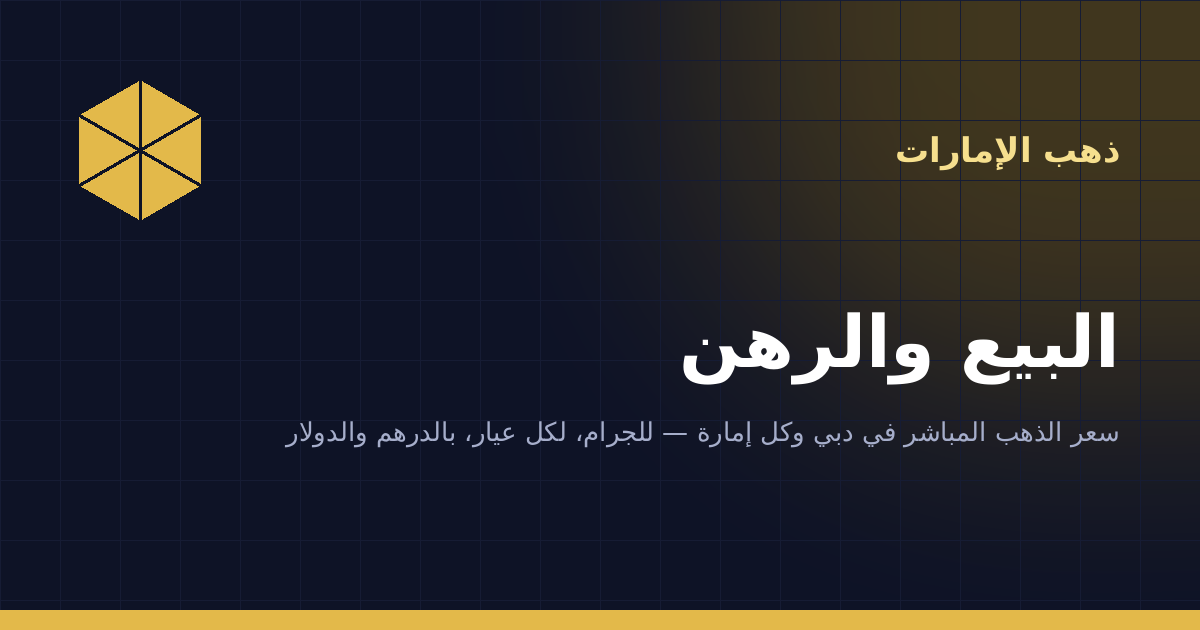
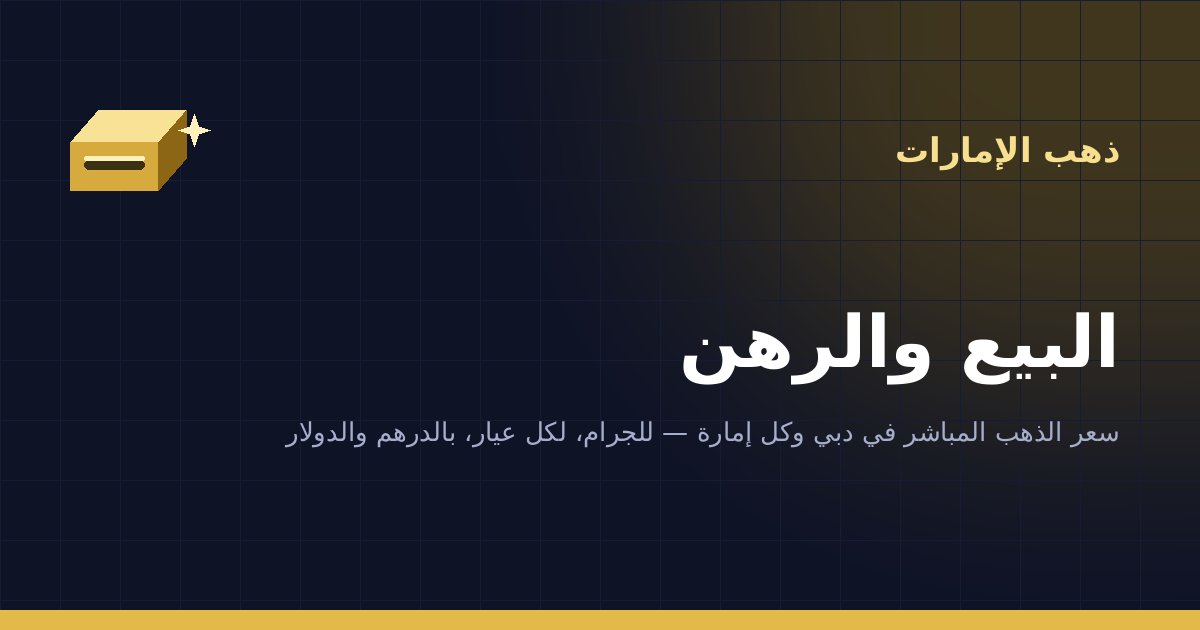
Add files via upload

Changed region(s): [[0.0308, 0.1206, 0.185, 0.3619]]

diff --git a/static/css/karat.css b/static/css/karat.css
@@ -49,7 +49,8 @@ kbd{font:inherit;font-size:.75em;border:1px solid var(--night-line);border-radiu
 .top{background:var(--night);color:var(--on-night);position:sticky;top:0;z-index:60;border-bottom:1px solid var(--night-line)}
 .top__row{display:flex;align-items:center;gap:1.25rem;min-height:4.25rem}
 .brand{display:inline-flex;align-items:center;gap:.65rem;color:var(--on-night);text-decoration:none}
-.brand__name{font-family:var(--display);font-weight:800;font-size:1.3rem;letter-spacing:-.02em;margin:0}
+.brand__name{font-family:var(--display);font-weight:800;font-size:1.3rem;letter-spacing:-.02em;margin:0;white-space:nowrap}
+.brand__name em{font-style:normal;color:var(--gold)}
 .lang-ar .brand__name{letter-spacing:0}
 .nav{display:none;gap:.1rem;flex:1;justify-content:center}
 .nav a{color:var(--on-night-2);text-decoration:none;font-weight:600;font-size:.92rem;padding:.55rem .7rem;border-radius:999px;white-space:nowrap}
@@ -302,7 +303,8 @@ kbd{font:inherit;font-size:.75em;border:1px solid var(--night-line);border-radiu
 .foot__grid{display:grid;gap:2rem;grid-template-columns:repeat(auto-fit,minmax(13rem,1fr))}
 .foot__about{grid-column:1/-1}
 @media (min-width:1100px){.foot__about{grid-column:span 2}}
-.foot__brand{font-family:var(--display);font-weight:800;font-size:1.3rem;color:#fff;margin:0 0 .5rem}
+.foot__brand{font-family:var(--display);font-weight:800;font-size:1.3rem;color:#fff;margin:0 0 .5rem;display:flex;align-items:center;gap:.5rem}
+.brand__mark{flex:0 0 auto}
 .foot__small{font-size:.8rem}
 .foot__h{margin:0 0 .5rem}
 .foot__h a{color:var(--gold-hi);text-decoration:none;font-weight:700}
